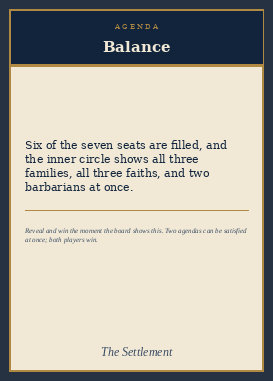
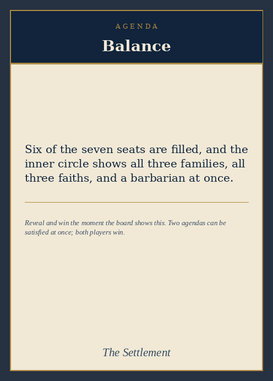
Balance needs one barbarian seated, not two
Balance's condition is now six of the seven seats filled, with all three
families, all three faiths and a barbarian in the inner circle at once.
The Balance agenda card is re-rendered for the game and the docs; the
print deck picks it up on merge. Saved games carry their own setting and
replay with two.

In 5,000 games (default table, seed 1), Balance goes from 21.2%, the
weakest agenda, to 34.1%, the strongest, just ahead of Barbarian
Conquest (32.5%). The faiths fall to 21-24%, and the median game shortens
from 43 to 41 turns. With all seven seats required as well
(--balance-seats 7), Balance lands at 24.5%.

Claude-Session: https://claude.ai/code/session_01N33ZYiZig83JtVZBownZVB

diff --git a/succession/runner.py b/succession/runner.py
@@ -215,7 +215,7 @@ def add_rules_arguments(parser: argparse.ArgumentParser, players: str = DEFAULT_
     parser.add_argument("--removed-out-of-game", action="store_true", help="killed courtiers never return (default: they may reshuffle back as a new person)")
     parser.add_argument("--defense-matches-target", action="store_true", help="an estate Defense may only protect a courtier of that estate")
     parser.add_argument("--balance-seats", type=int, default=6, help="seats that must be filled for Balance to count (default 6 of 7)")
-    parser.add_argument("--balance-barbarians", type=int, default=2, help="barbarians Balance wants seated (default 2)")
+    parser.add_argument("--balance-barbarians", type=int, default=1, help="barbarians Balance wants seated (default 1)")
     parser.add_argument("--drop-agendas", default="", metavar="KEYS", help="leave agendas out of the pool entirely, e.g. balance")
     parser.add_argument("--faith-seats", type=int, default=4, help="inner seats a faith must hold to win (default 4 of 7)")
     parser.add_argument("--house-any-three", action="store_true", help="drop the preferred-estate requirement: any three seats of a family win")

diff --git a/succession/agendas.py b/succession/agendas.py
@@ -62,8 +62,10 @@ FAITH_SEATS = 4
 BALANCE_SEATS = 6
 #: Barbarian Conquest: this many barbarians seated in the inner circle.
 CONQUEST_BARBARIANS = 3
-#: Balance wants this many barbarians, not just one.
-BALANCE_BARBARIANS = 2
+#: Balance wants this many barbarians seated. It was two; with events played
+#: when drawn and the hand limit checked at the end of the turn, two left
+#: Balance the weakest agenda by four points.
+BALANCE_BARBARIANS = 1
 
 @dataclass(frozen=True, slots=True)
 class AgendaRules:

diff --git a/succession/state.py b/succession/state.py
@@ -72,8 +72,8 @@ class Config:
     faith_seats: int = 4
     #: Seats that must be filled before Balance counts.
     balance_seats: int = 6
-    #: Barbarians Balance wants seated, not just one.
-    balance_barbarians: int = 2
+    #: Barbarians Balance wants seated.
+    balance_barbarians: int = 1
     #: Agenda keys left out of the pool entirely -- neither dealt nor available
     #: to a Schismatic Event. For asking what the game looks like without one.
     excluded_agendas: tuple[str, ...] = ()

diff --git a/tools/card_text.py b/tools/card_text.py
@@ -286,7 +286,7 @@ AGENDA_TEXT: tuple[tuple[str, str, str], ...] = (
         "Balance",
         "The Settlement",
         "Six of the seven seats are filled, and the inner circle shows all "
-        "three families, all three faiths, and two barbarians at once.",
+        "three families, all three faiths, and a barbarian at once.",
     ),
 )
 

diff --git a/docs/RULES.md b/docs/RULES.md
@@ -164,7 +164,7 @@ state, **both** players win and the game is logged as a double win.
 | House Rising | 3 (one per family) | That family holds **3+** of the 7 inner seats, **at least one of them in the family's own estate** |
 | Faith Ascendant | 3 (one per faith) | That faith holds 4+ of the 7 inner seats (`--faith-seats` to change) |
 | Barbarian Conquest | 1 | **3 barbarians seated in the inner circle** |
-| Balance | 1 | **Six of the seven seats filled**, and the inner circle simultaneously shows all three families, all three faiths, and **two** barbarians (`--balance-seats`, `--balance-barbarians`) |
+| Balance | 1 | **Six of the seven seats filled**, and the inner circle simultaneously shows all three families, all three faiths, and **a barbarian** (`--balance-seats`, `--balance-barbarians`) |
 
 Barbarian Conquest is one clause: three barbarians holding inner seats, in any
 estates. There is no shortcut for taking both Military seats -- two barbarian
@@ -213,7 +213,7 @@ first; the flag flips it.
 | # | Decision | Default | Flag |
 |---|---|---|---|
 | 1 | **Killed courtiers go to the discard** and may reshuffle back as a *new* person with printed attributes (this is what "a killed courtier can reshuffle back in as a 'new' person, never a resurrection" implies). | return to discard | `--removed-out-of-game` takes them out for good |
-| 2 | **Balance wants two barbarians, Conquest three.** Both were tuned down from a board where they led every other agenda by five points. | 2 / 3 | `--balance-barbarians` |
+| 2 | **Balance wants one barbarian, Conquest three.** Balance wanted two until events played when drawn and the hand limit moved to the end of the turn; with two it fell to 21%, the weakest agenda by four points. | 1 / 3 | `--balance-barbarians` |
 | 2b | **A house's own estate is its affiliation from the source document** (Amonides/Church, Mitreas/Merchant, Argaian/Military). | that table | `--house-preferred-estates` overrides a family; `--house-any-three` drops the requirement |
 | 2f | **All eight agendas are in the pool.** `--drop-agendas balance` takes one out entirely -- neither dealt nor reachable by a Schismatic Event. | all eight | `--drop-agendas` |
 | 2d | **Balance asks for all three faiths**, but not for a godless courtier, since godlessness has no agenda. | three faiths | -- |

diff --git a/docs/CARDS.md b/docs/CARDS.md
@@ -184,7 +184,7 @@ Four are dealt face down and four stay in the fog for a Schismatic Event to draw
 | <img src="cards/89-faith-ascendant-mystery-cults.jpg" alt="Faith Ascendant: Mystery Cults" width="132"> | **Faith Ascendant: Mystery Cults**<br><sub>Card 89</sub> | The Mystery Cults | Four or more of the seven inner seats are held by courtiers of the Mystery Cults. |
 | <img src="cards/90-faith-ascendant-the-one-god.jpg" alt="Faith Ascendant: The One God" width="132"> | **Faith Ascendant: The One God**<br><sub>Card 90</sub> | The One God | Four or more of the seven inner seats are held by courtiers of The One God. |
 | <img src="cards/91-barbarian-conquest.jpg" alt="Barbarian Conquest" width="132"> | **Barbarian Conquest**<br><sub>Card 91</sub> | The Frontier | Three courtiers of Barbarian origin hold inner seats, in any estates. |
-| <img src="cards/92-balance.jpg" alt="Balance" width="132"> | **Balance**<br><sub>Card 92</sub> | The Settlement | Six of the seven seats are filled, and the inner circle shows all three families, all three faiths, and two barbarians at once. |
+| <img src="cards/92-balance.jpg" alt="Balance" width="132"> | **Balance**<br><sub>Card 92</sub> | The Settlement | Six of the seven seats are filled, and the inner circle shows all three families, all three faiths, and a barbarian at once. |
 
 ## Seat
 
